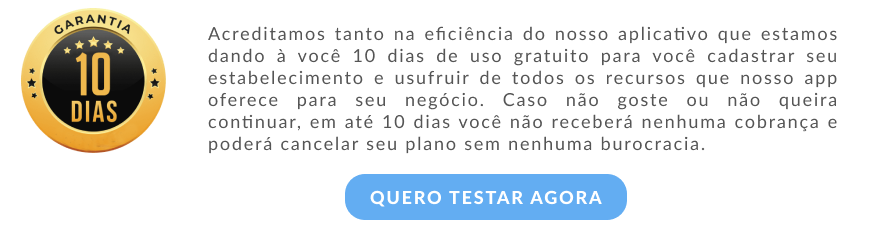
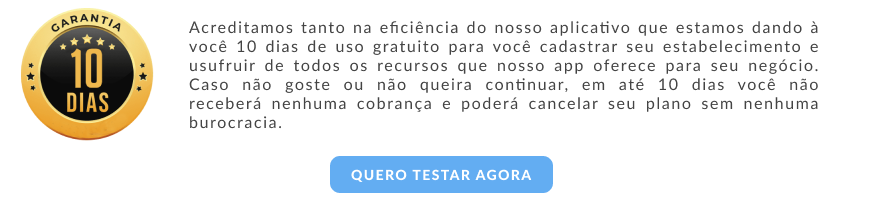
Componente de Garantias

diff --git a/components/Garantias/index.js b/components/Garantias/index.js
@@ -1,6 +1,6 @@
 import React, { Component } from 'react';
 import Link from 'next/link';
-import { BgDesk, Container, PageContainer, Title, Traco  } from './styled';
+import { BgDesk, BgMb, Container, PageContainer, Title, Traco  } from './styled';
 import { Element, Events, animateScroll as scroll, scrollSpy, scroller } from 'react-scroll';
 
 class Garantias extends Component {
@@ -23,9 +23,10 @@ class Garantias extends Component {
     return(
       <PageContainer>
         <Container>
-          <Title>100% de Satisfação Garantida ou Você Não Precisa Pagar Nada</Title>
+          <Title>Satisfação Garantida ou Você Não Precisa Pagar Nada</Title>
           <Traco />
           <BgDesk src={'/garantiadk.png'} onClick={this.handleScroll}/>
+          <BgMb src={'/garantiamb.png'} onClick={this.handleScroll}/>
         </Container>
       </PageContainer>
     )

diff --git a/components/Garantias/styled.js b/components/Garantias/styled.js
@@ -20,8 +20,22 @@ export const Container = styled.div`
 `;
 
 export const BgDesk = styled.img`
-
     cursor:pointer;
+    display:block;
+
+    @media (max-width:800px){
+        display:none;
+    }
+`;
+
+export const BgMb = styled.img`
+    cursor:pointer;
+    display:none;
+
+    @media (max-width:800px){
+        display:block;
+    }
+
 `;
 
 export const PageContainer = styled.div`
@@ -29,6 +43,7 @@ export const PageContainer = styled.div`
     display:flex;
     margin-bottom:40px;
     background-color:#FFF;
+    margin-top:20px;
 
 `;
 

diff --git a/pages/lp/aplicativo-para-manicures.js b/pages/lp/aplicativo-para-manicures.js
@@ -12,6 +12,7 @@ import Divisao from '../../components/Divisao';
 import Bottom from '../../components/Bottom';
 import Vantagens from '../../components/Vantagens';
 import PrecoLp from '../../components/PrecoLp';
+import Garantias from '../../components/Garantias';
 
 class Home extends Component {
 
@@ -89,6 +90,7 @@ class Home extends Component {
        <Divisao />
        <Recursos />
        <Vantagens />
+       <Garantias />
        <PrecoLp
          action_lead={this.action_lead}
        />

diff --git a/pages/lp/aplicativo-para-salao.js b/pages/lp/aplicativo-para-salao.js
@@ -12,6 +12,7 @@ import Divisao from '../../components/Divisao';
 import Bottom from '../../components/Bottom';
 import Vantagens from '../../components/Vantagens';
 import PrecoLp from '../../components/PrecoLp';
+import Garantias from '../../components/Garantias';
 
 class Home extends Component {
 
@@ -91,6 +92,7 @@ class Home extends Component {
        <Divisao />
        <Recursos />
        <Vantagens />
+       <Garantias />
        <PrecoLp
          action_lead={this.action_lead}
        />
